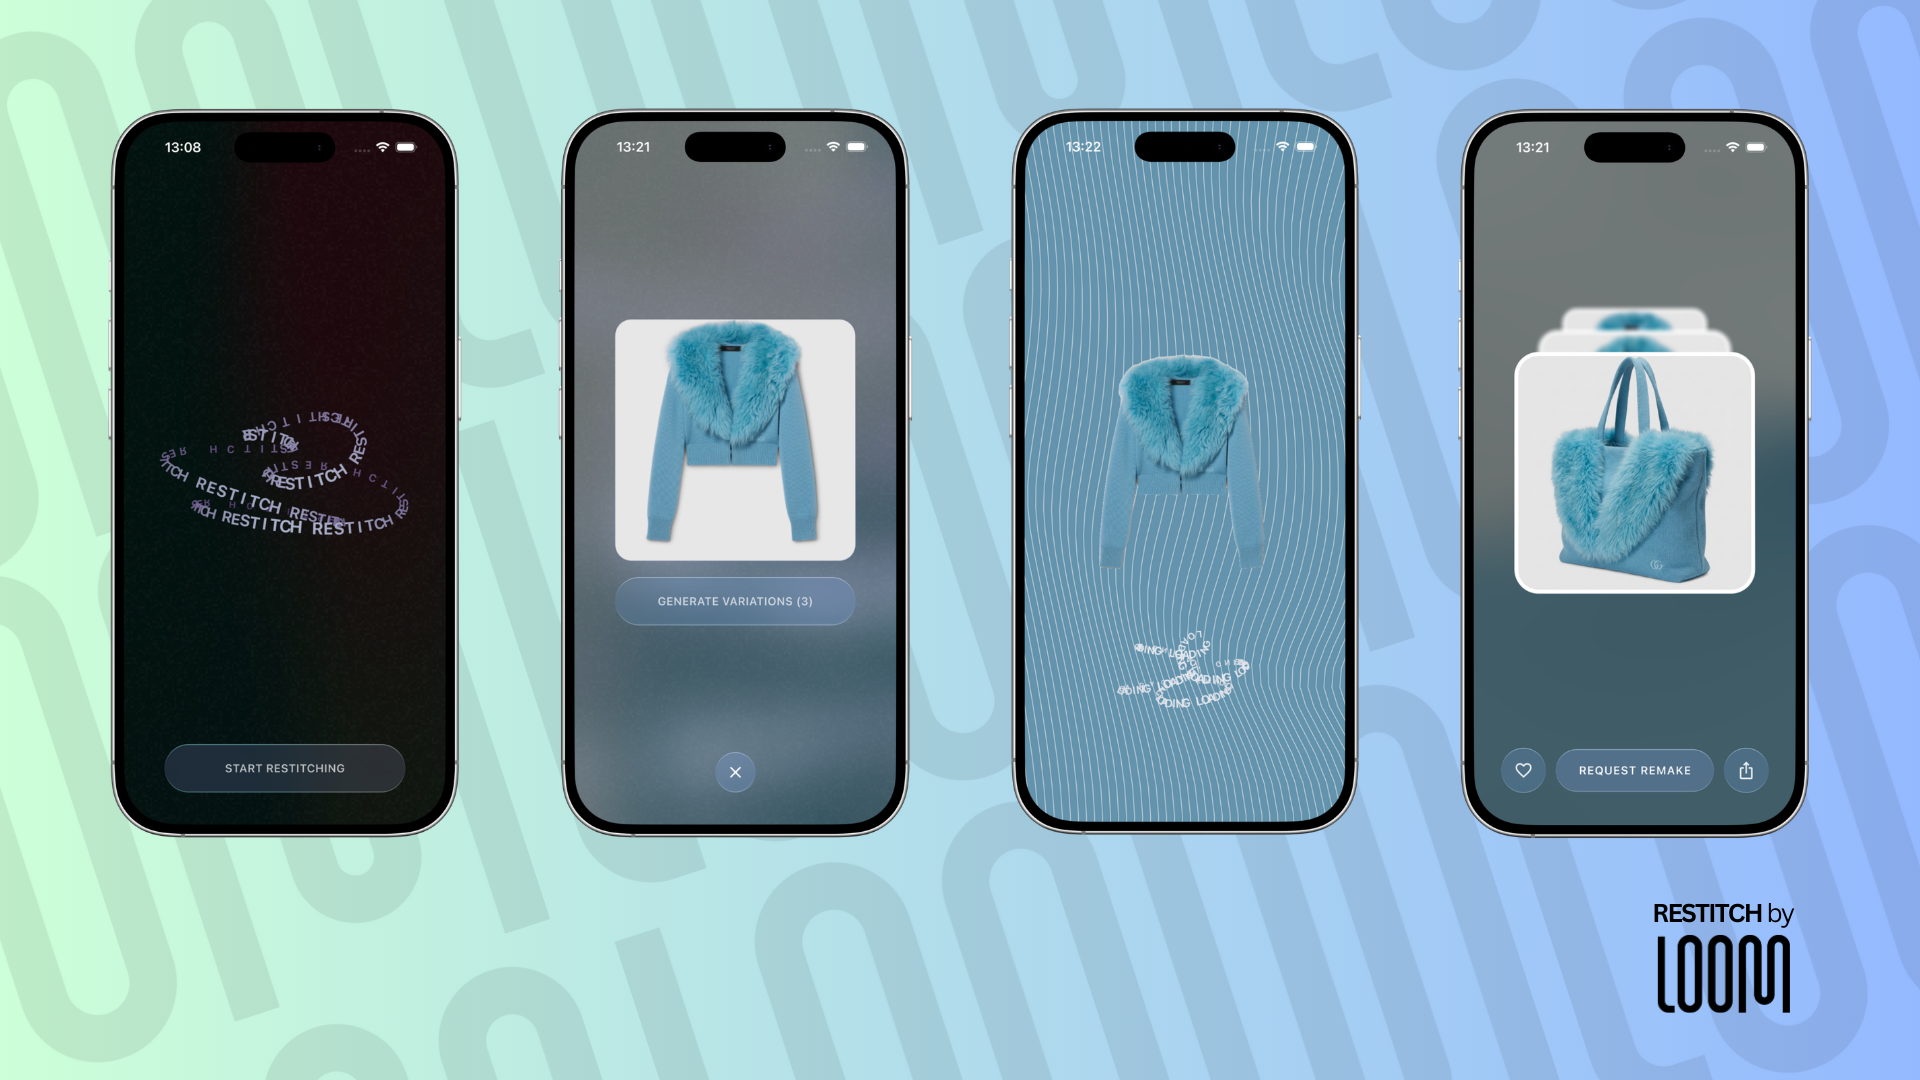
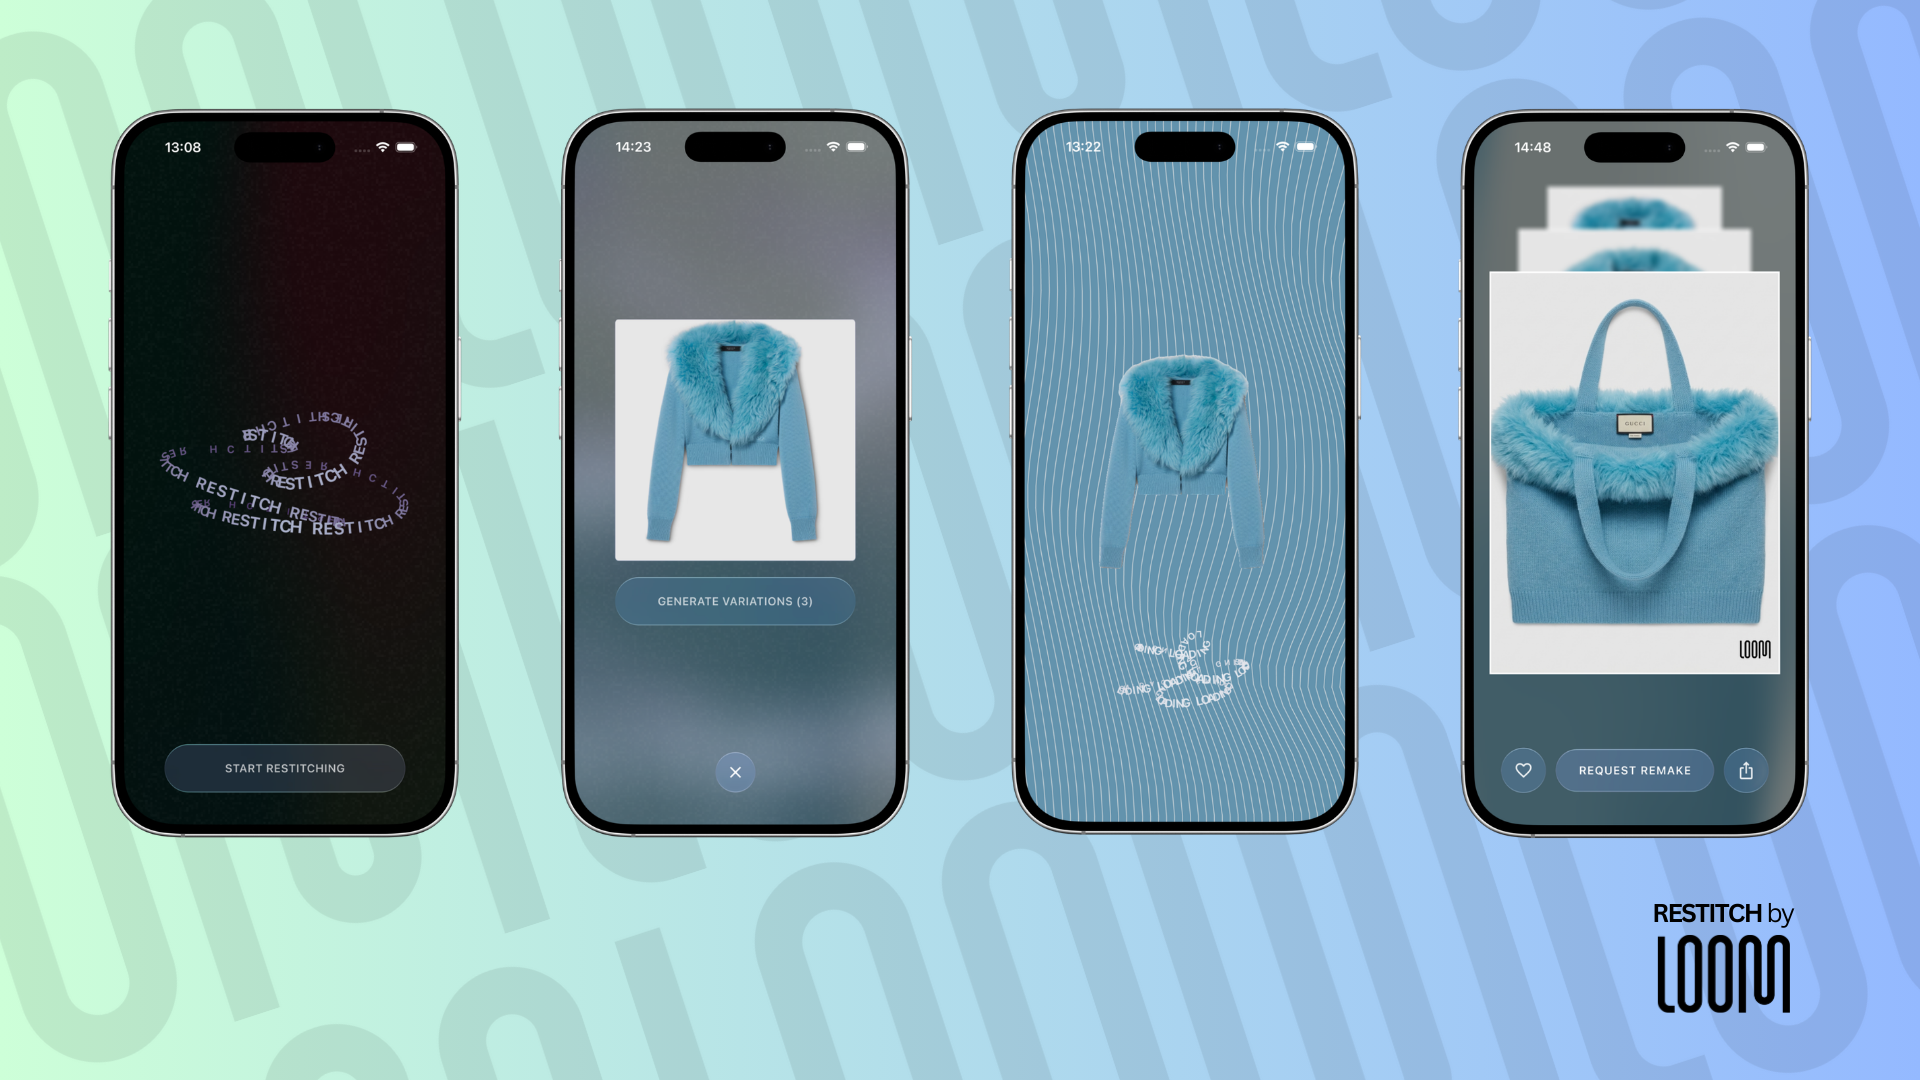
Final image updates

diff --git a/core/design_system/lib/src/widgets/carousel/fadez_carousel.dart b/core/design_system/lib/src/widgets/carousel/fadez_carousel.dart
@@ -2,6 +2,7 @@ import 'dart:io';
 import 'dart:math' as math;
 import 'dart:ui';
 
+import 'package:design_system/design_system.dart';
 import 'package:design_system/src/widgets/images/cached_image.dart';
 import 'package:flutter/foundation.dart';
 import 'package:flutter/material.dart';
@@ -236,7 +237,7 @@ class _FadezCarouselState extends State<FadezCarousel>
                               final shadowOffset = t * 12.0;
                               return Container(
                                 decoration: BoxDecoration(
-                                  borderRadius: BorderRadius.circular(30),
+                                  borderRadius: BorderRadius.circular(20),
                                   boxShadow: [
                                     BoxShadow(
                                       color: Colors.black.withValues(
@@ -301,29 +302,43 @@ class _FadezCard extends StatelessWidget {
       value.startsWith('file://') ? value.replaceFirst('file://', '') : value;
 
   Widget _buildImage() {
+    Widget image;
     if (_isNetworkImage(imageUrl)) {
-      return CachedImage(
+      image = CachedImage(
         url: imageUrl,
         fit: BoxFit.cover,
         width: 300,
         height: 300,
       );
-    }
-
-    if (_isLocalFileImage(imageUrl)) {
-      return Image.file(
+    } else if (_isLocalFileImage(imageUrl)) {
+      image = Image.file(
         File(_normalizeLocalPath(imageUrl)),
+        fit: BoxFit.cover,
+        width: 300,
+        height: 300,
+      );
+    } else {
+      image = Image.asset(
+        imageUrl,
         fit: BoxFit.cover,
         width: 300,
         height: 300,
       );
     }
 
-    return Image.asset(
-      imageUrl,
-      fit: BoxFit.cover,
-      width: 300,
-      height: 300,
+    return Stack(
+      fit: StackFit.expand,
+      children: [
+        image,
+        Positioned(
+          right: 10,
+          bottom: 10,
+          child: Assets.logo.loomLogo.designImage(
+            width: 38,
+            height: 38,
+          ),
+        ),
+      ],
     );
   }
 
@@ -338,17 +353,20 @@ class _FadezCard extends StatelessWidget {
     final slideY = effectivePos * _slidePerPos;
     final opacity = (_kMaxVisible.toDouble() - effectivePos).clamp(0.0, 1.0);
 
-    Widget card = Container(
-      height: 300,
-      width: 300,
-      decoration: BoxDecoration(
-        color: Colors.black,
-        border: Border.all(color: Colors.white, width: 5),
-        borderRadius: BorderRadius.circular(30),
-      ),
-      child: ClipRRect(
-        borderRadius: BorderRadius.circular(25),
-        child: _buildImage(),
+    Widget card = Padding(
+      padding: const EdgeInsets.all(20.0),
+      child: Container(
+        height: 500,
+        width: MediaQuery.sizeOf(context).width,
+        decoration: BoxDecoration(
+          color: Colors.black,
+          border: Border.all(color: Colors.white, width: 2),
+          borderRadius: BorderRadius.circular(0),
+        ),
+        child: ClipRRect(
+          borderRadius: BorderRadius.circular(0),
+          child: _buildImage(),
+        ),
       ),
     );
 

diff --git a/feature/garment_generator/lib/src/view/pages/loading_page.dart b/feature/garment_generator/lib/src/view/pages/loading_page.dart
@@ -112,9 +112,47 @@ class _LoadingPageState extends State<LoadingPage>
                       scale: _scaleAnimation.value,
                       child: Hero(
                         tag: 'garmentImageHero',
+                        transitionOnUserGestures: true,
+                        createRectTween: (begin, end) {
+                          return MaterialRectArcTween(
+                            begin: begin!,
+                            end: end!,
+                          );
+                        },
+                        placeholderBuilder: (context, size, child) {
+                          return Opacity(
+                            opacity: 0.0,
+                            child: SizedBox(
+                              width: size.width,
+                              height: size.height,
+                              child: child,
+                            ),
+                          );
+                        },
+                        flightShuttleBuilder: (
+                          flightContext,
+                          animation,
+                          flightDirection,
+                          fromHeroContext,
+                          toHeroContext,
+                        ) {
+                          final fromHero = fromHeroContext.widget as Hero;
+                          final toHero = toHeroContext.widget as Hero;
+                          final shuttleChild =
+                              flightDirection == HeroFlightDirection.push
+                              ? toHero.child
+                              : fromHero.child;
+                          return FadeTransition(
+                            opacity: CurvedAnimation(
+                              parent: animation,
+                              curve: Curves.easeOutCubic,
+                            ),
+                            child: shuttleChild,
+                          );
+                        },
                         child: DecoratedBox(
                           decoration: BoxDecoration(
-                            borderRadius: BorderRadius.circular(24),
+                            borderRadius: BorderRadius.circular(4),
                             boxShadow: hasBgRemovedImage
                                 ? const []
                                 : [
@@ -129,7 +167,7 @@ class _LoadingPageState extends State<LoadingPage>
                                   ],
                           ),
                           child: ClipRRect(
-                            borderRadius: BorderRadius.circular(24),
+                            borderRadius: BorderRadius.circular(4),
                             child: AnimatedSwitcher(
                               duration: const Duration(milliseconds: 450),
                               transitionBuilder: (child, animation) =>

diff --git a/core/design_system/lib/src/widgets/buttons/upload_tile.dart b/core/design_system/lib/src/widgets/buttons/upload_tile.dart
@@ -29,7 +29,7 @@ class _UploadTileState extends State<UploadTile> with AnimatedPressMixin {
   Widget build(BuildContext context) {
     return buildPressable(
       child: ClipRRect(
-        borderRadius: BorderRadiusGeometry.circular(20),
+        borderRadius: BorderRadiusGeometry.circular(0),
         child: Shimmer(
           enabled: widget.shimmerEnabled,
           child: LiquidGlassLayer(
@@ -41,7 +41,7 @@ class _UploadTileState extends State<UploadTile> with AnimatedPressMixin {
               ).colorScheme.onSurface.withValues(alpha: 0.1),
             ),
             child: LiquidGlass(
-              shape: LiquidRoundedSuperellipse(borderRadius: 20),
+              shape: LiquidRoundedSuperellipse(borderRadius: 4),
               child: Container(
                 height: 300,
                 width: 300,
@@ -53,7 +53,7 @@ class _UploadTileState extends State<UploadTile> with AnimatedPressMixin {
                     ).colorScheme.onSurface.withValues(alpha: 0.2),
                     width: 0.5,
                   ),
-                  borderRadius: BorderRadius.circular(20),
+                  borderRadius: BorderRadius.circular(0),
                   boxShadow: [
                     BoxShadow(
                       color: Theme.of(

diff --git a/feature/garment_generator/lib/src/view/widgets/custom_upload_widget.dart b/feature/garment_generator/lib/src/view/widgets/custom_upload_widget.dart
@@ -115,7 +115,7 @@ class _CustomUploadWidgetState extends State<CustomUploadWidget> {
       child: Hero(
         tag: 'garmentImageHero',
         child: ClipRRect(
-          borderRadius: BorderRadius.circular(20),
+          borderRadius: BorderRadius.circular(4),
           child: Image.file(File(_imagePath!), fit: BoxFit.cover),
         ),
       ),
@@ -147,7 +147,7 @@ class _CustomUploadWidgetState extends State<CustomUploadWidget> {
             }
 
             return ClipRRect(
-              borderRadius: BorderRadius.circular(20),
+              borderRadius: BorderRadius.circular(4),
               child: Column(
                 spacing: 20,
                 mainAxisAlignment: .center,

diff --git a/core/design_system/lib/gen/assets.gen.dart b/core/design_system/lib/gen/assets.gen.dart
@@ -22,10 +22,22 @@ class $AssetsIconsGen {
   List<AssetGenImage> get values => [newGarment];
 }
 
+class $AssetsLogoGen {
+  const $AssetsLogoGen();
+
+  /// File path: assets/logo/loom_logo.png
+  AssetGenImage get loomLogo =>
+      const AssetGenImage('assets/logo/loom_logo.png');
+
+  /// List of all assets
+  List<AssetGenImage> get values => [loomLogo];
+}
+
 class Assets {
   const Assets._();
 
   static const $AssetsIconsGen icons = $AssetsIconsGen();
+  static const $AssetsLogoGen logo = $AssetsLogoGen();
 }
 
 class AssetGenImage {

diff --git a/README.md b/README.md
@@ -21,7 +21,10 @@ From a UX perspective, the entry screen introduces two custom shaders: a wave-st
 
 When the user taps 'START RESTITCHING', a custom animation is triggered: the background blurs, the text expands, the main button transforms, and the 'Upload Garment Image' button appears with a custom icon (currently reminiscent of a cleaning logo; ultimately, I intend to replace this with an animated GIF showing garments morphing and blending into each other).
 
-At the bottom of this entry screen, I would also add a dedicated section or panel where users can input and view their full specifications—such as body measurements, an image of themselves, and any other information that might be relevant to personalized fashion transformations. This ensures the app can deliver outputs that are uniquely tailored, and brings a more "couture" feel to the experience.
+In this screen I would add a few things; 
+1. At the bottom of this entry screen, I would also add a dedicated section or panel where users can input and view their full specifications—such as body measurements, an image of themselves, and any other information that might be relevant to personalized fashion transformations. This ensures the app can deliver outputs that are uniquely tailored, and brings a more "couture" feel to the experience.
+2. I would add a splash video creating that luxury experience from the get-go
+3. If the user has completed their transformation flow, their history and status of orders are located here
 
 ### 2. Upload Screen 
 Our upload screen holds our 'Upload Garment Image' button, which has a shimmer effect when no image is uploaded. When an image is uploaded from gallery, it updates 
@@ -147,5 +150,10 @@ The full flow I would like to implement
 
 
 ### Additional Design Notes
-If I were to do a full redesign of this app for production, to achieve this luxury look I would lean more into designs from [cosmos](https://www.cosmos.so/home) 
+If I were to do a full redesign of this app for production, to achieve this luxury look I'd lean more into designs from [cosmos](https://www.cosmos.so/home) 
+[Home screen inspiration](https://www.cosmos.so/jamesisbuilding/home-screen-inspiration)
+[Loading screen inspiration](https://www.cosmos.so/jamesisbuilding/loading-screen-inspirati)
+[Results Screen Inspiration](https://www.cosmos.so/jamesisbuilding/results-screen-inspirati)
+
+
 and implement clearer animations from [60fps](https://60fps.design/)
